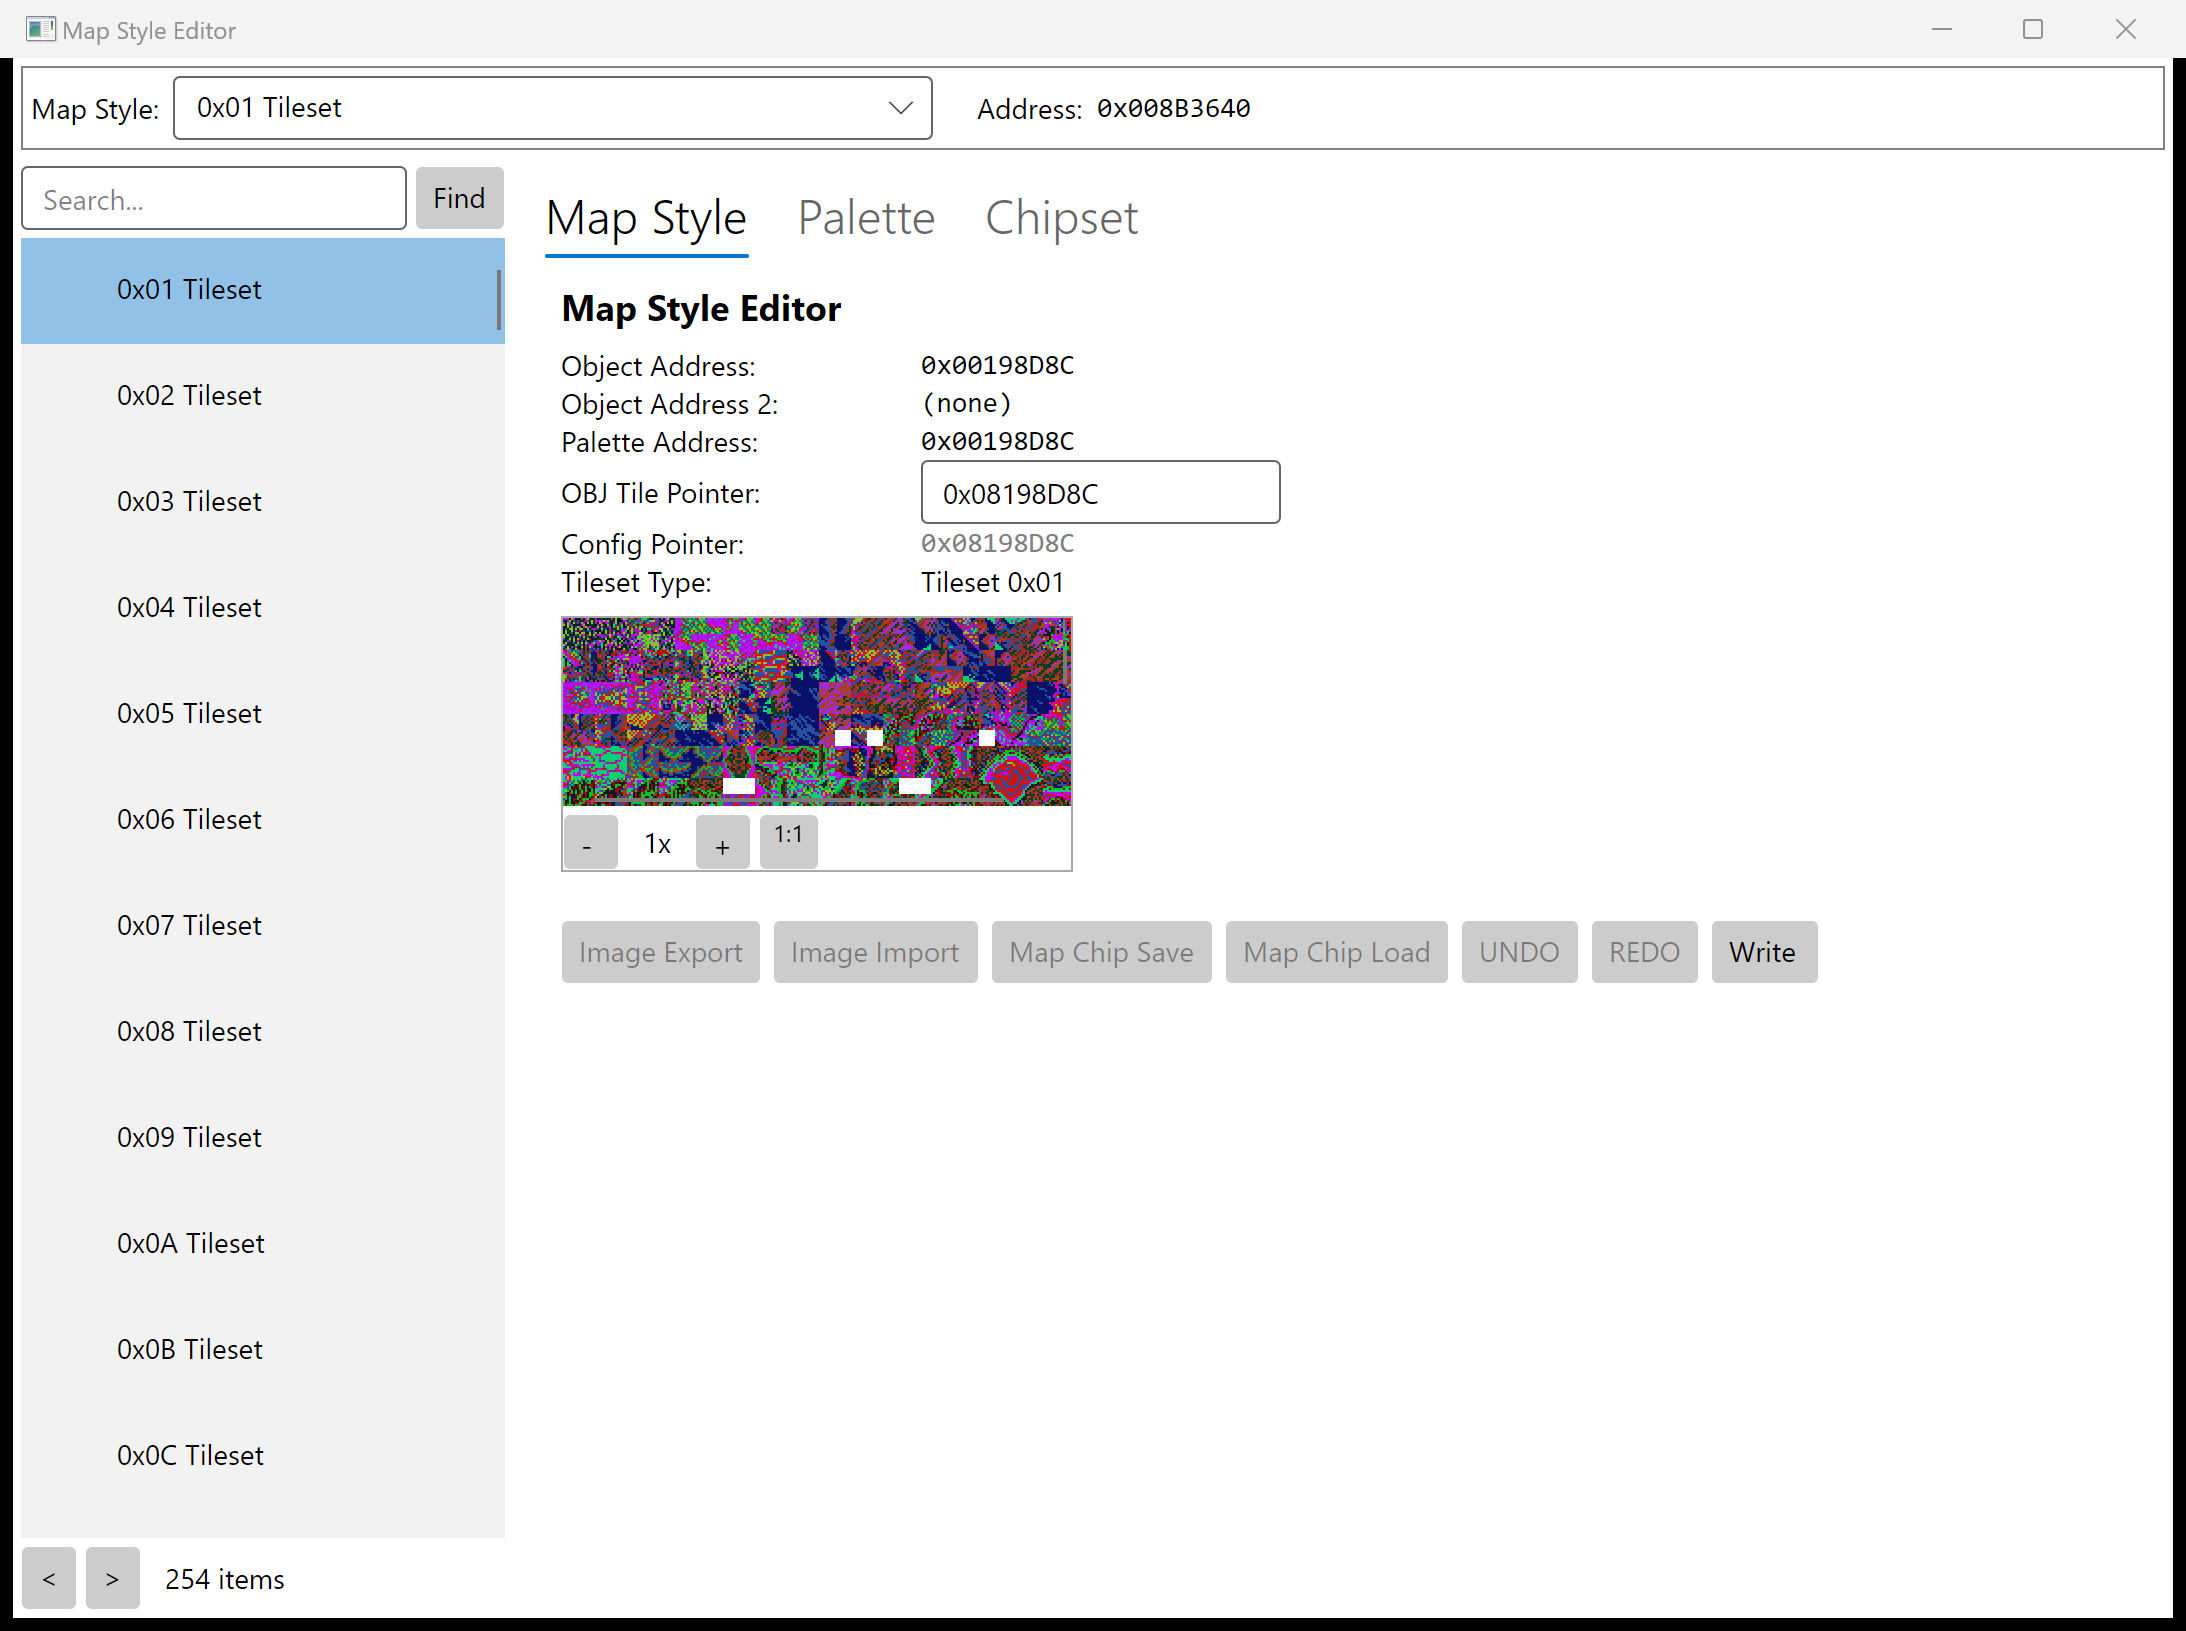
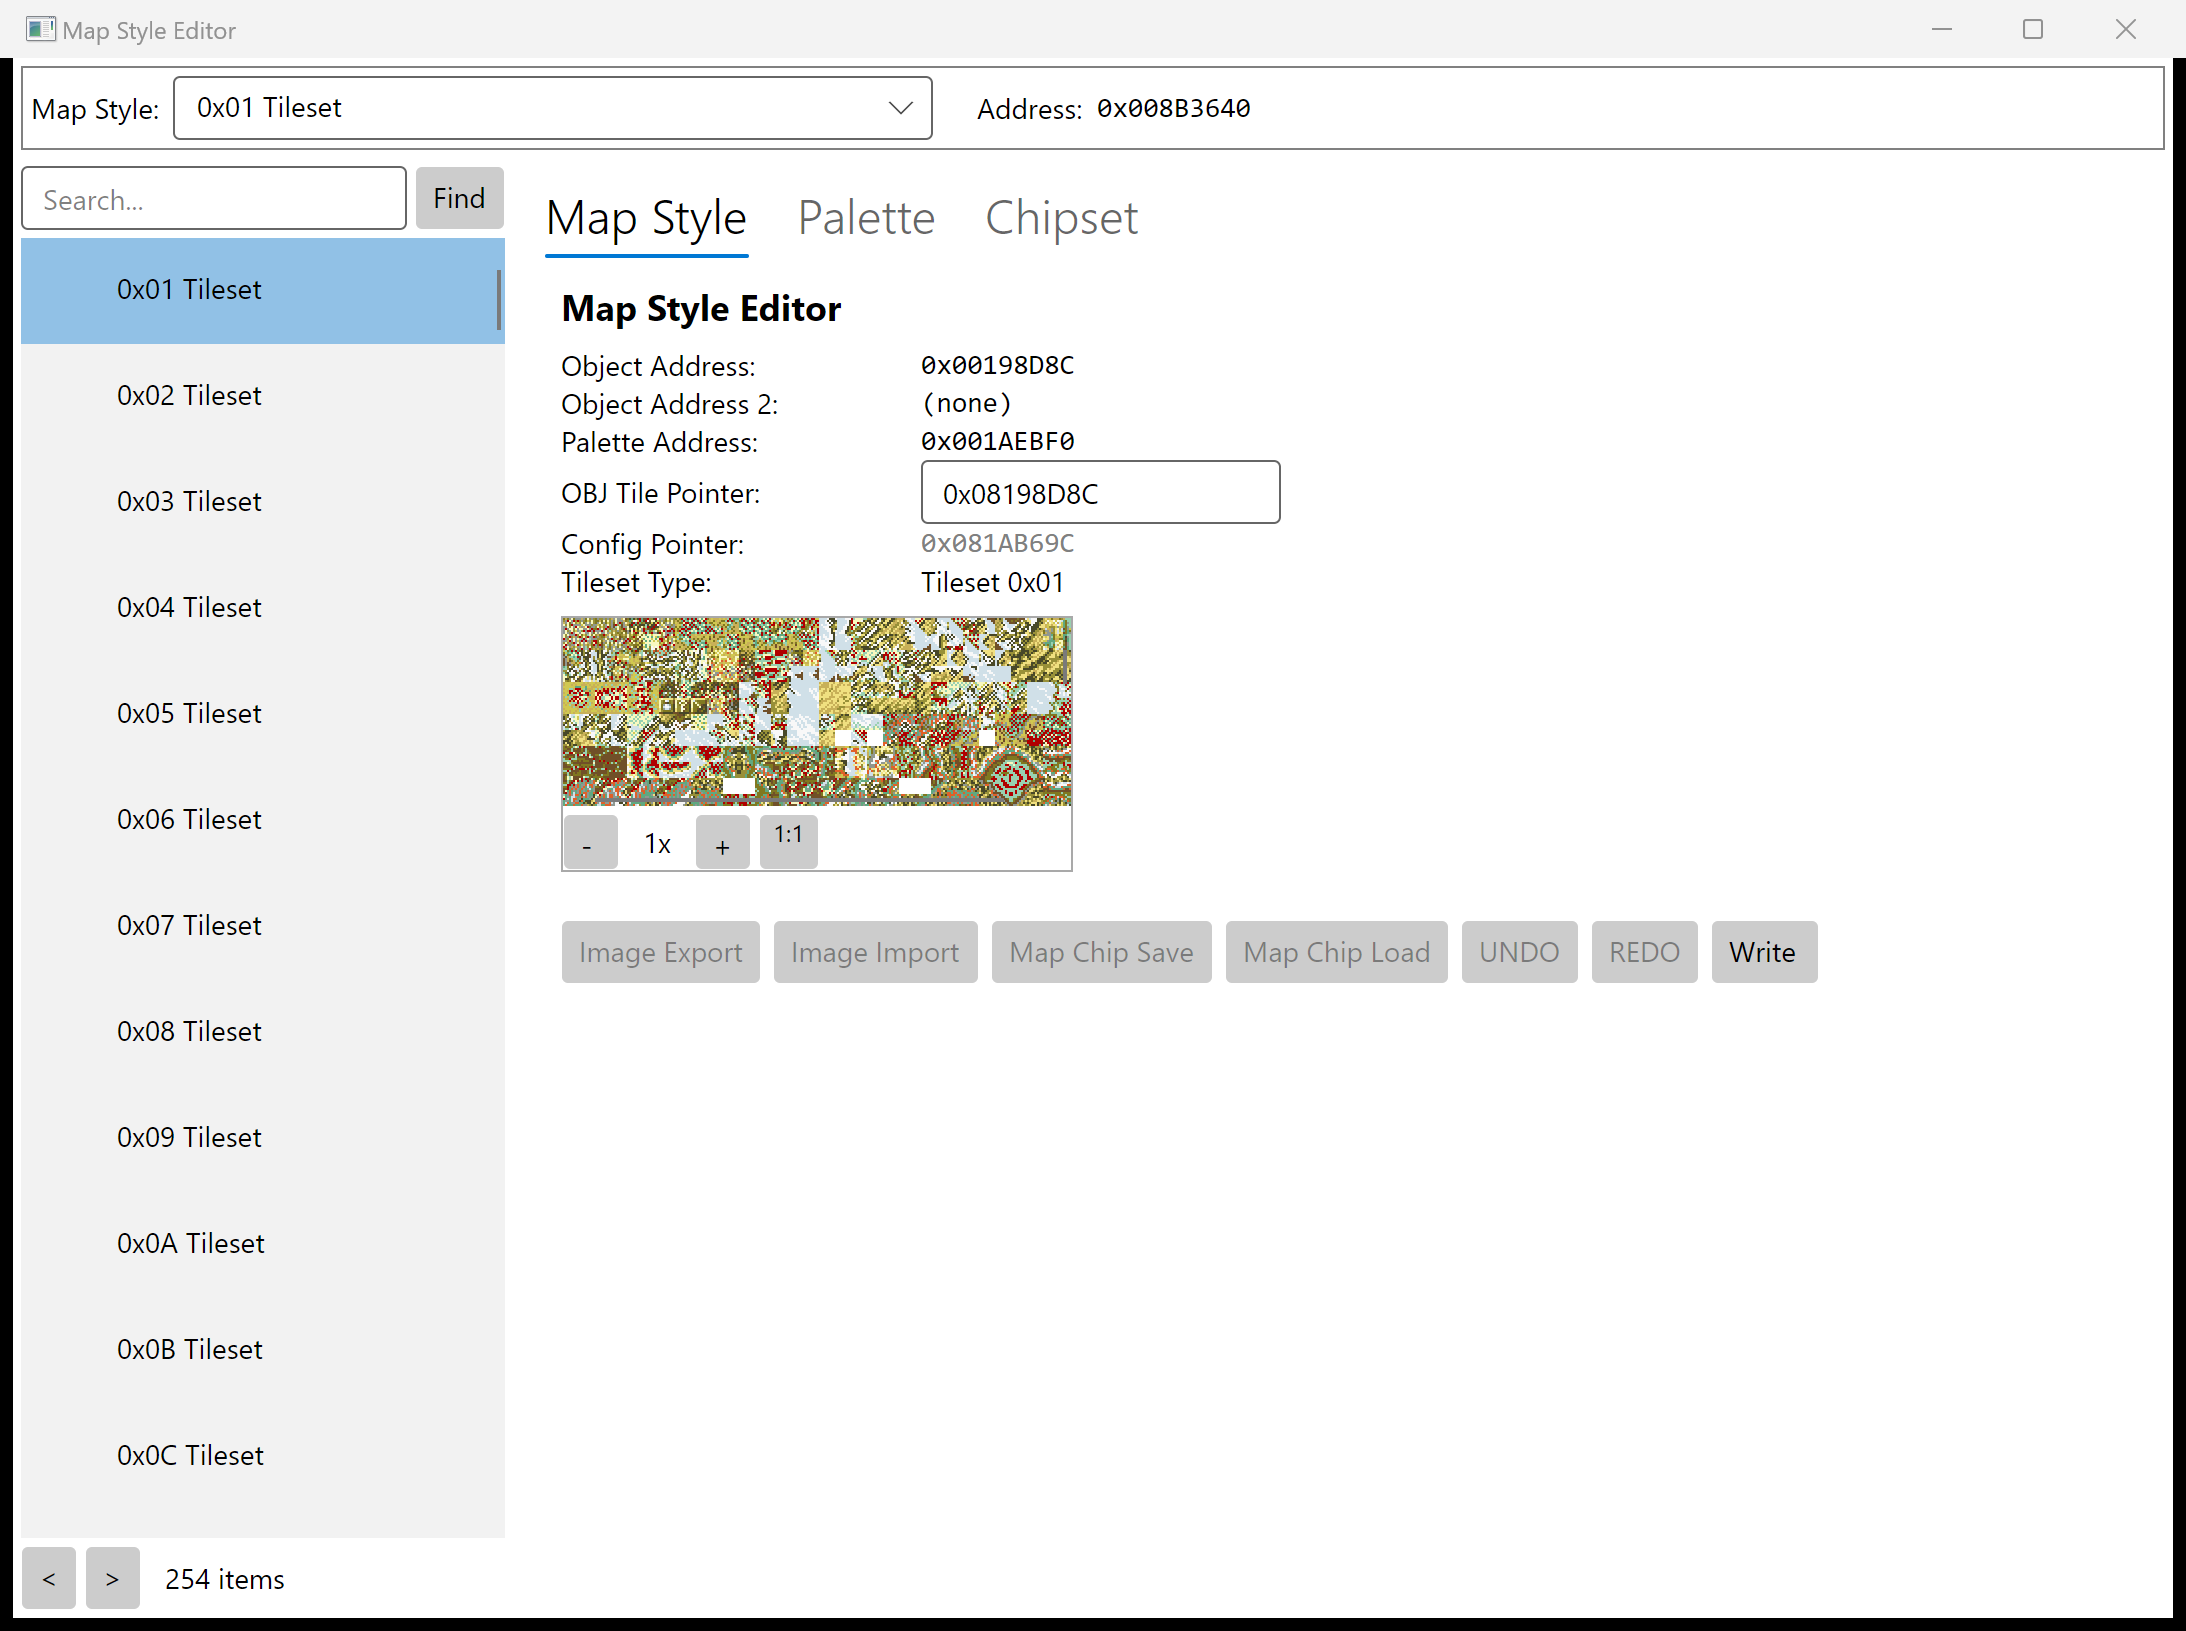
fix(avalonia): resolve palette/config via per-style PLIST (#670)
Copilot CLI v1 review found that LoadEntry was reusing the obj-table
index against map_pal_pointer / map_config_pointer, so all three
addresses collapsed to the same value on FE8U and the preview
rendered OBJ bytes as palette data.

Fixed by mirroring the WinForms path: enumerate map_setting entries
via MapSettingCore.MakeMapIDList, match the obj_plist low byte to
our obj-table index, and resolve palette_plist (u8 at map+6) and
config_plist (u8 at map+7) via their respective pointer tables
(palTableBase + plist*4 -> u32 -> U.toOffset). Also surfaces the
FE7 obj2 secondary tileset address (still not appended to the
preview; tracked in #689).

Adds regression test ViewModel_LoadEntry_ResolvesPalettePlistFromMapSetting
that pins the source uses map.addr + 6 / + 7 and rejects the prior
obj-index-based slot computation.

New screenshot shows coherent tile content for FE8U style 0x01 with
Palette Address 0x001ABF0 and Config Pointer 0x081AB69C distinct
from Object Address 0x00198D8C.

Generated with Claude Code (claude-opus-4-7-1m)

Changed region(s): [[0.2489, 0.3679, 0.4977, 0.4905], [0.4666, 0.2452, 0.4977, 0.2759]]

diff --git a/FEBuilderGBA.Avalonia/ViewModels/MapStyleEditorViewModel.cs b/FEBuilderGBA.Avalonia/ViewModels/MapStyleEditorViewModel.cs
@@ -246,48 +246,87 @@ namespace FEBuilderGBA.Avalonia.ViewModels
             // calling the PLIST writer. Surface "(none)" until Core
             // extracts that writer (KnownGap #374). ObjAddress2 stays 0.
 
-            // Also load config pointer from the parallel config table
-            uint configTablePointer = rom.RomInfo.map_config_pointer;
-            uint configTableBase = 0;
+            // Resolve the obj_plist ID from the addr position inside the
+            // map_obj_pointer table. The user-facing palette_plist and
+            // config_plist for THIS obj_plist do NOT live in parallel
+            // tables under the same index — they are recorded as separate
+            // u8 fields on every map_setting entry (palette_plist at +6,
+            // config_plist at +7). To resolve them, find a map_setting
+            // entry whose obj_plist low byte equals our index, then look
+            // up the palette/config PLISTs in their respective pointer
+            // tables. (Copilot CLI v1 PR review — without this lookup the
+            // palette/config addresses share the obj index and the chip
+            // preview renders OBJ bytes as palette data.)
             uint index = 0;
-            if (configTablePointer != 0)
+            uint objTableBase = rom.p32(rom.RomInfo.map_obj_pointer);
+            if (U.isSafetyOffset(objTableBase, rom) && addr >= objTableBase)
+                index = (addr - objTableBase) / 4;
+
+            byte palettePlist = 0;
+            byte configPlist = 0;
+            byte obj2Plist = 0;
+            bool resolvedFromMapSetting = false;
+            foreach (var map in MapSettingCore.MakeMapIDList(rom))
             {
-                uint objTableBase = rom.p32(rom.RomInfo.map_obj_pointer);
-                if (U.isSafetyOffset(objTableBase, rom) && addr >= objTableBase)
+                if (map.addr + 8 > (uint)rom.Data.Length) continue;
+                ushort objPlistWord = (ushort)rom.u16(map.addr + 4);
+                if ((uint)(objPlistWord & 0xFF) != index) continue;
+                palettePlist = (byte)rom.u8(map.addr + 6);
+                configPlist = (byte)rom.u8(map.addr + 7);
+                obj2Plist = (byte)((objPlistWord >> 8) & 0xFF);
+                resolvedFromMapSetting = true;
+                break;
+            }
+
+            // Config pointer via PlistToOffsetAddr (configTableBase + configPlist*4).
+            if (resolvedFromMapSetting && rom.RomInfo.map_config_pointer != 0)
+            {
+                uint configTableBase = rom.p32(rom.RomInfo.map_config_pointer);
+                if (U.isSafetyOffset(configTableBase, rom))
                 {
-                    index = (addr - objTableBase) / 4;
-                    configTableBase = rom.p32(configTablePointer);
-                    if (U.isSafetyOffset(configTableBase, rom))
+                    uint configEntryAddr = configTableBase + (uint)configPlist * 4;
+                    if (configEntryAddr + 4 <= (uint)rom.Data.Length)
                     {
-                        uint configEntryAddr = configTableBase + index * 4;
-                        if (configEntryAddr + 4 <= (uint)rom.Data.Length)
-                        {
-                            ConfigPointer = rom.u32(configEntryAddr);
+                        ConfigPointer = rom.u32(configEntryAddr);
+                        if (ConfigPointer != 0 && U.isPointer(ConfigPointer))
                             ChipsetConfigAddress = U.toOffset(ConfigPointer);
-                        }
                     }
                 }
             }
 
-            // Resolve palette pointer from the parallel palette table.
-            // The dereferenced pointer is the BASE of the 5+5 palette
-            // block — stored in PaletteBaseAddress (NOT PaletteAddress)
+            // Palette base address via PlistToOffsetAddr
+            // (palTableBase + palettePlist*4). Stored in PaletteBaseAddress
             // so subsequent PaletteCombo/PaletteTypeCombo changes can
-            // re-index from this stable origin (Copilot bot v2 inline
-            // review). PaletteAddress holds the slice address per
-            // LoadPalette's contract.
-            uint palettePointer = rom.RomInfo.map_pal_pointer;
-            if (palettePointer != 0)
+            // re-index from this stable origin.
+            if (resolvedFromMapSetting && rom.RomInfo.map_pal_pointer != 0)
             {
-                uint paletteTableBase = rom.p32(palettePointer);
+                uint paletteTableBase = rom.p32(rom.RomInfo.map_pal_pointer);
                 if (U.isSafetyOffset(paletteTableBase, rom))
                 {
-                    uint paletteEntryAddr = paletteTableBase + index * 4;
+                    uint paletteEntryAddr = paletteTableBase + (uint)palettePlist * 4;
                     if (paletteEntryAddr + 4 <= (uint)rom.Data.Length)
                     {
                         uint palPtr = rom.u32(paletteEntryAddr);
                         if (palPtr != 0 && U.isPointer(palPtr))
                             PaletteBaseAddress = U.toOffset(palPtr);
+                    }
+                }
+            }
+
+            // FE7 obj_plist high byte = secondary OBJ tileset. Surface its
+            // resolved address only; the actual tileset append into the
+            // preview cache is tracked separately in #689.
+            if (obj2Plist > 0 && rom.RomInfo.map_obj_pointer != 0)
+            {
+                uint objTableBase2 = rom.p32(rom.RomInfo.map_obj_pointer);
+                if (U.isSafetyOffset(objTableBase2, rom))
+                {
+                    uint obj2EntryAddr = objTableBase2 + (uint)obj2Plist * 4;
+                    if (obj2EntryAddr + 4 <= (uint)rom.Data.Length)
+                    {
+                        uint obj2Ptr = rom.u32(obj2EntryAddr);
+                        if (obj2Ptr != 0 && U.isPointer(obj2Ptr))
+                            ObjAddress2 = U.toOffset(obj2Ptr);
                     }
                 }
             }

diff --git a/FEBuilderGBA.Avalonia.Tests/GapSweep/MapStyleEditorParityTests.cs b/FEBuilderGBA.Avalonia.Tests/GapSweep/MapStyleEditorParityTests.cs
@@ -779,6 +779,30 @@ public class MapStyleEditorParityTests
     // -----------------------------------------------------------------
 
     /// <summary>
+    /// PLIST resolution regression (#670 Copilot CLI v1 PR review): the
+    /// chip-preview palette MUST resolve via the per-style palette_plist
+    /// (read from the map_setting struct at +6), NOT by reusing the
+    /// obj-table index against map_pal_pointer. Asserts the VM source
+    /// reads palette_plist from a map_setting entry whose obj_plist low
+    /// byte matches our obj-table index, and then computes the palette
+    /// table slot as palTableBase + palette_plist * 4.
+    /// </summary>
+    [Fact]
+    public void ViewModel_LoadEntry_ResolvesPalettePlistFromMapSetting()
+    {
+        string code = File.ReadAllText(ViewModelPath());
+        // Must enumerate map_setting entries to find the matching obj_plist.
+        Assert.Contains("MapSettingCore.MakeMapIDList(rom)", code);
+        // Must read palette_plist from map_setting +6 and config_plist from +7.
+        Assert.Contains("rom.u8(map.addr + 6)", code);
+        Assert.Contains("rom.u8(map.addr + 7)", code);
+        // Must NOT compute palette/config slot as obj-index*4 anymore.
+        // (Old code used `paletteTableBase + index * 4`.)
+        Assert.DoesNotContain("paletteTableBase + index * 4", code);
+        Assert.DoesNotContain("configTableBase + index * 4", code);
+    }
+
+    /// <summary>
     /// Map Chip Preview thumbnail (#670) must be a real GbaImageControl,
     /// not the pre-#670 placeholder TextBlock. The control name
     /// `MapChipPreviewImage` is referenced from the code-behind